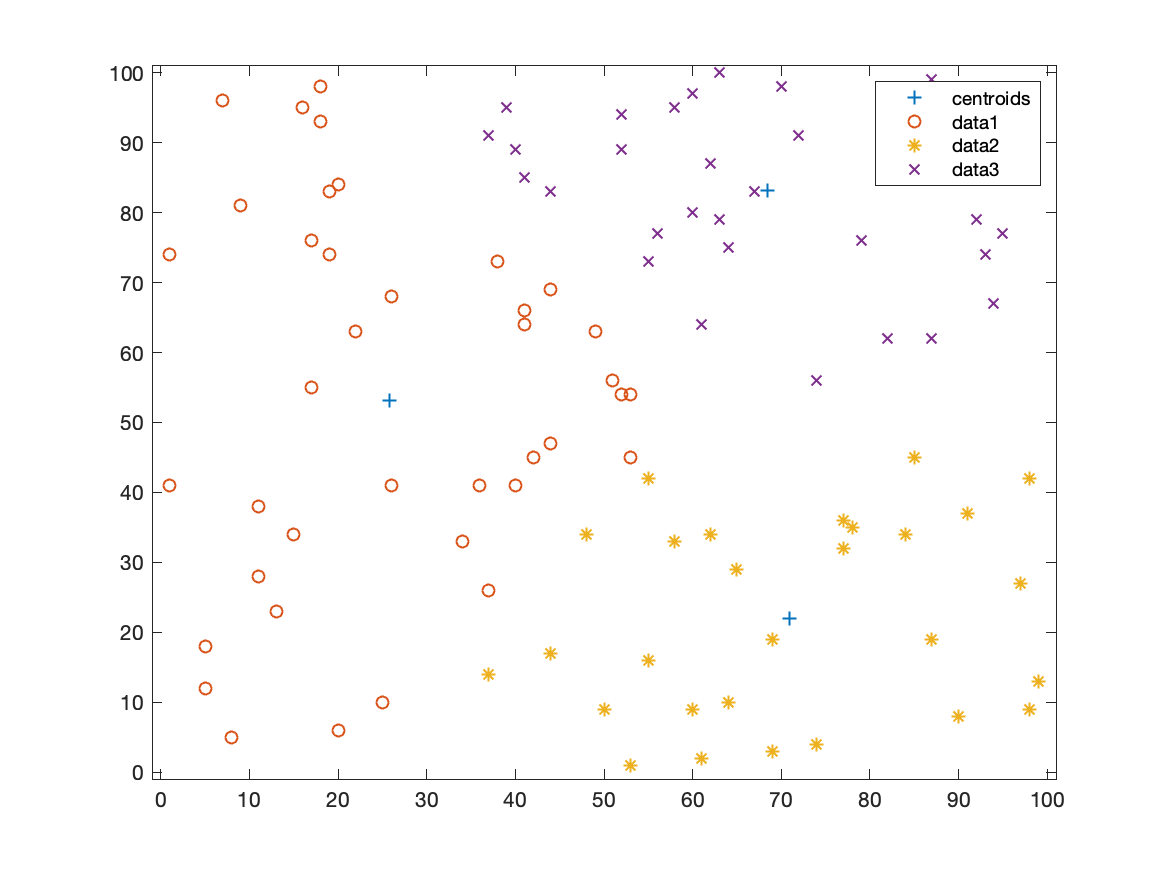
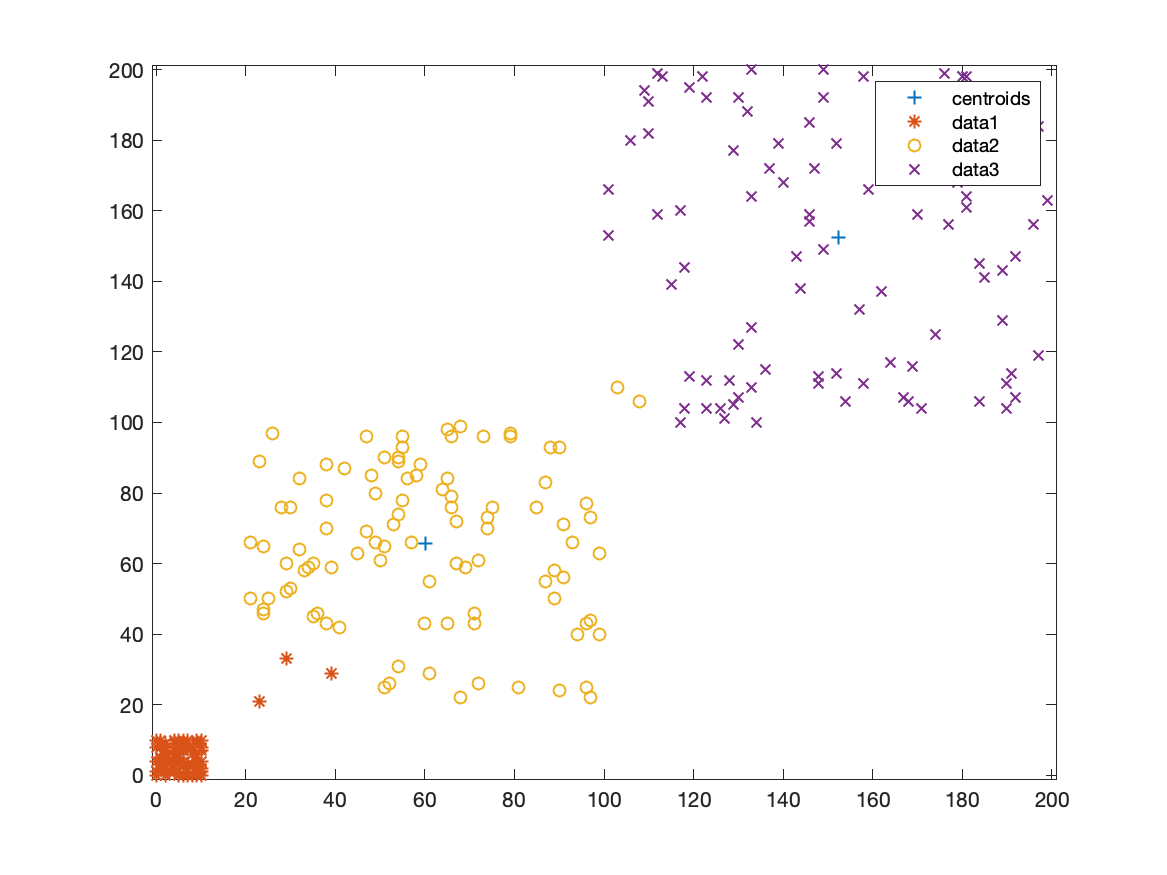
rwepifoc

diff --git a/hw5_spectral.m b/hw5_spectral.m
@@ -3,7 +3,11 @@ clear;
 rng(4);
 num_items = 100;
 num_dimensions = 2;
-data = randi(num_items,num_items,num_dimensions);
+cluster_1 = randi([0,10],num_items,num_dimensions);
+cluster_2 = randi([20,100],num_items,num_dimensions);
+cluster_3 = randi([100,200],num_items,num_dimensions);
+data = [cluster_1;cluster_2;cluster_3];
+num_items = num_items * 3;
 
 K = 3;
 
@@ -35,7 +39,7 @@ centroids = sortrows(d_Vecs(1:K,:));
 [memberships, new_centroids] = customKmeans(d_Vecs,centroids,memberships);
 
 if num_dimensions == 2
-    f = customPlotKmeans2D(new_centroids,d_Vecs,memberships,0);
+    f = customPlotKmeans2D(new_centroids,d_Vecs,memberships,0.5);
     saveas(f,['./figures/kmeansSpecData.png']);
     f = customPlotKmeans2D(new_centroids,data,memberships,num_items);
     saveas(f,['./figures/kmeansSpecEigVecs.png']);

diff --git a/hw5_kmeans.m b/hw5_kmeans.m
@@ -3,7 +3,14 @@ clear;
 rng(4);
 num_items = 100;
 num_dimensions = 2;
-data = randi(num_items,num_items,num_dimensions);
+
+cluster_1 = randi([0,10],num_items,num_dimensions);
+cluster_2 = randi([20,100],num_items,num_dimensions);
+cluster_3 = randi([100,200],num_items,num_dimensions);
+data = [cluster_1;cluster_2;cluster_3];
+num_items = num_items * 3;
+
+%data = randi(num_items,num_items,num_dimensions);
 
 K = 3;
 
@@ -19,6 +26,6 @@ centroids
 new_centroids
 
 if num_dimensions == 2
-    f = customPlotKmeans2D(new_centroids,data,memberships,num_items);
+    f = customPlotKmeans2D(new_centroids,data,memberships,200);
     saveas(f,['./figures/kmeans1.png']);
 end

diff --git a/customPlotKmeans2D.m b/customPlotKmeans2D.m
@@ -10,7 +10,7 @@ y = new_centroids(:,2);
 
 f = figure();
 plot(x,y,'+');
-axis([-1 dimension+1 -1 dimension+1]);
+axis([-1 dimension -1 dimension]);
 legend('centroids');
 hold on;
 shapes = ['*','o','x','d','s'];
